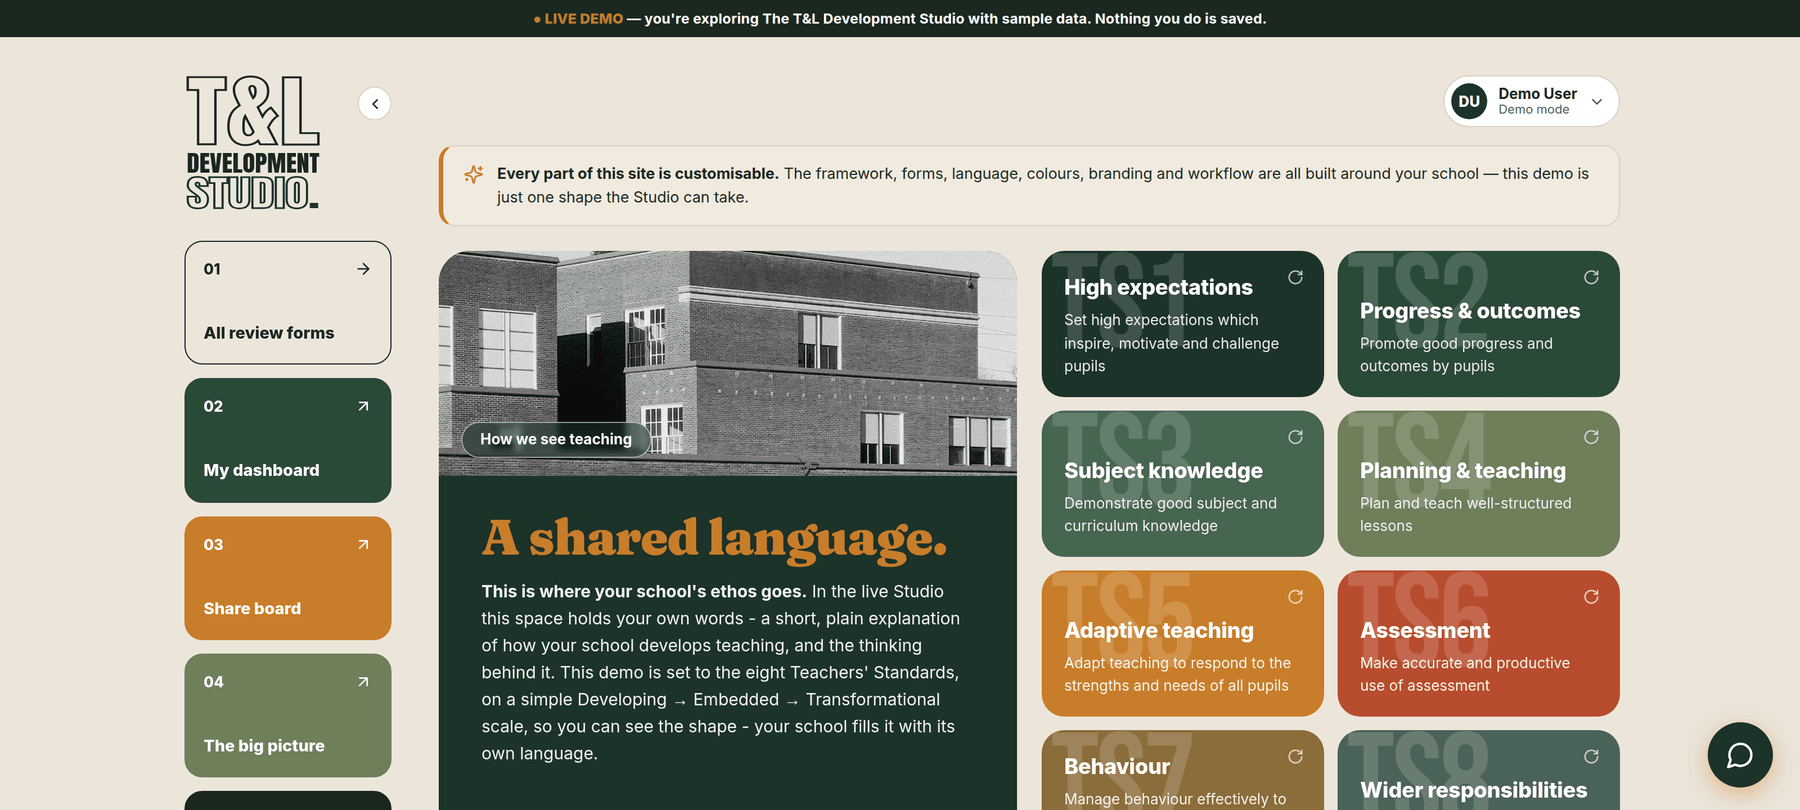
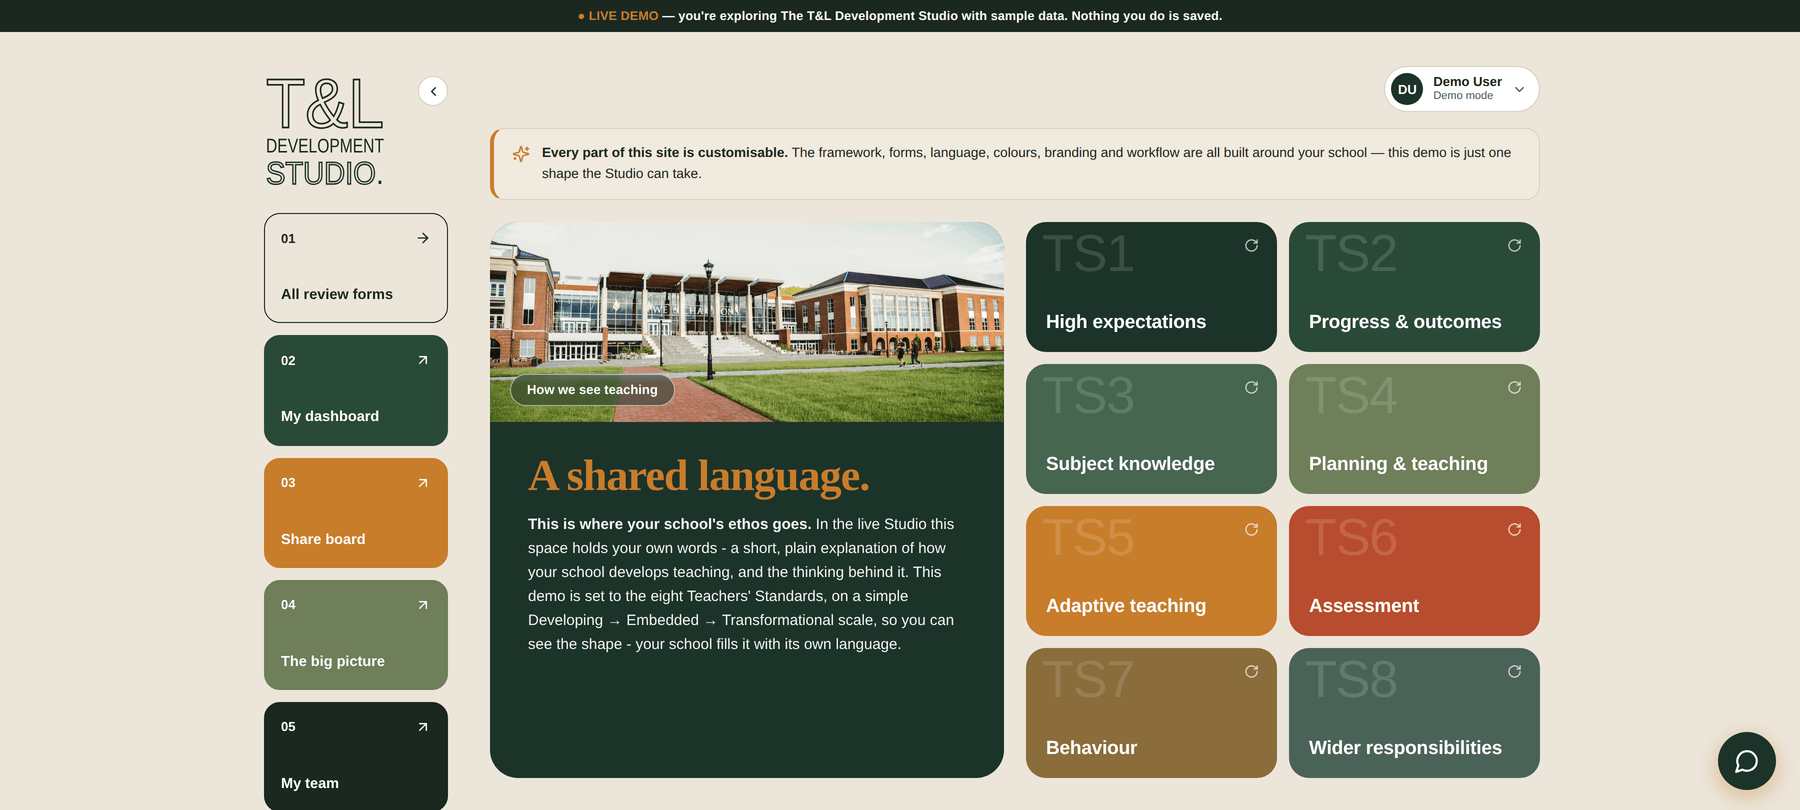
Refresh T&L demo card: new colour header image, CPD in blurb, no em dashes
- Replace the demo header image with a current screenshot (colour school
  photo, decluttered framework tiles).
- Update the blurb to mention CPD logging and the CPD analytics leadership
  and line managers see.
- Strip em dashes from the copy (product blurb and the BRIT subsection).

Claude-Session: https://claude.ai/code/session_01Esyd9CQZBiQaH85EicSTQ8

diff --git a/WesternStudio/public/index.html b/WesternStudio/public/index.html
@@ -68,7 +68,7 @@
             <div class="product-card-body">
               <div class="product-info">
                 <p class="product-name">The T&amp;L Development Studio</p>
-                <p class="product-desc">A live, explorable demo of a bespoke teaching-and-learning platform. Staff review one another's practice against a shared framework — capturing observations, learning walks and departmental reviews — while leadership sees the whole picture through live analytics, supported by built-in AI assistants that read anonymised trends only. This public demo runs on the DfE Teachers' Standards, but every part — framework, forms, language, colours, branding and workflow — is built around each school. Explore it; no sign-in needed.</p>
+                <p class="product-desc">A live, explorable demo of a bespoke teaching-and-learning platform. Staff review one another's practice against a shared framework, capturing observations, learning walks and departmental reviews, and log their own professional development as they go. Line managers and leadership see the whole picture through live analytics, from review completion to CPD across a team, supported by built-in AI assistants that read anonymised trends only. This public demo runs on the DfE Teachers' Standards, but every part, from framework and forms to language, colours, branding and workflow, is built around each school. Explore it; no sign-in needed.</p>
               </div>
               <span class="product-arrow">→</span>
             </div>
@@ -76,8 +76,8 @@
           <div class="product-subsection">
             <img src="images/brit-studio.png" alt="The bespoke T&amp;L Development Studio built for The BRIT School" class="subsection-img">
             <div class="subsection-body">
-              <p class="subsection-title">Built bespoke — The BRIT School</p>
-              <p class="subsection-desc">Behind the demo sits a fully bespoke build for The BRIT School: its own framework and language, its safeguarding and data-protection needs, in the school's own visual identity. The demo shows the shape — each school gets its own.</p>
+              <p class="subsection-title">Built bespoke for The BRIT School</p>
+              <p class="subsection-desc">Behind the demo sits a fully bespoke build for The BRIT School: its own framework and language, its safeguarding and data-protection needs, in the school's own visual identity. The demo shows the shape, and each school gets its own.</p>
               <p class="product-note">Interested in a bespoke T&amp;L platform for your school or trust? <a href="mailto:hello@westernstudio.co.uk?subject=Bespoke%20T%26L%20platform%20enquiry">Get in touch →</a></p>
             </div>
           </div>
